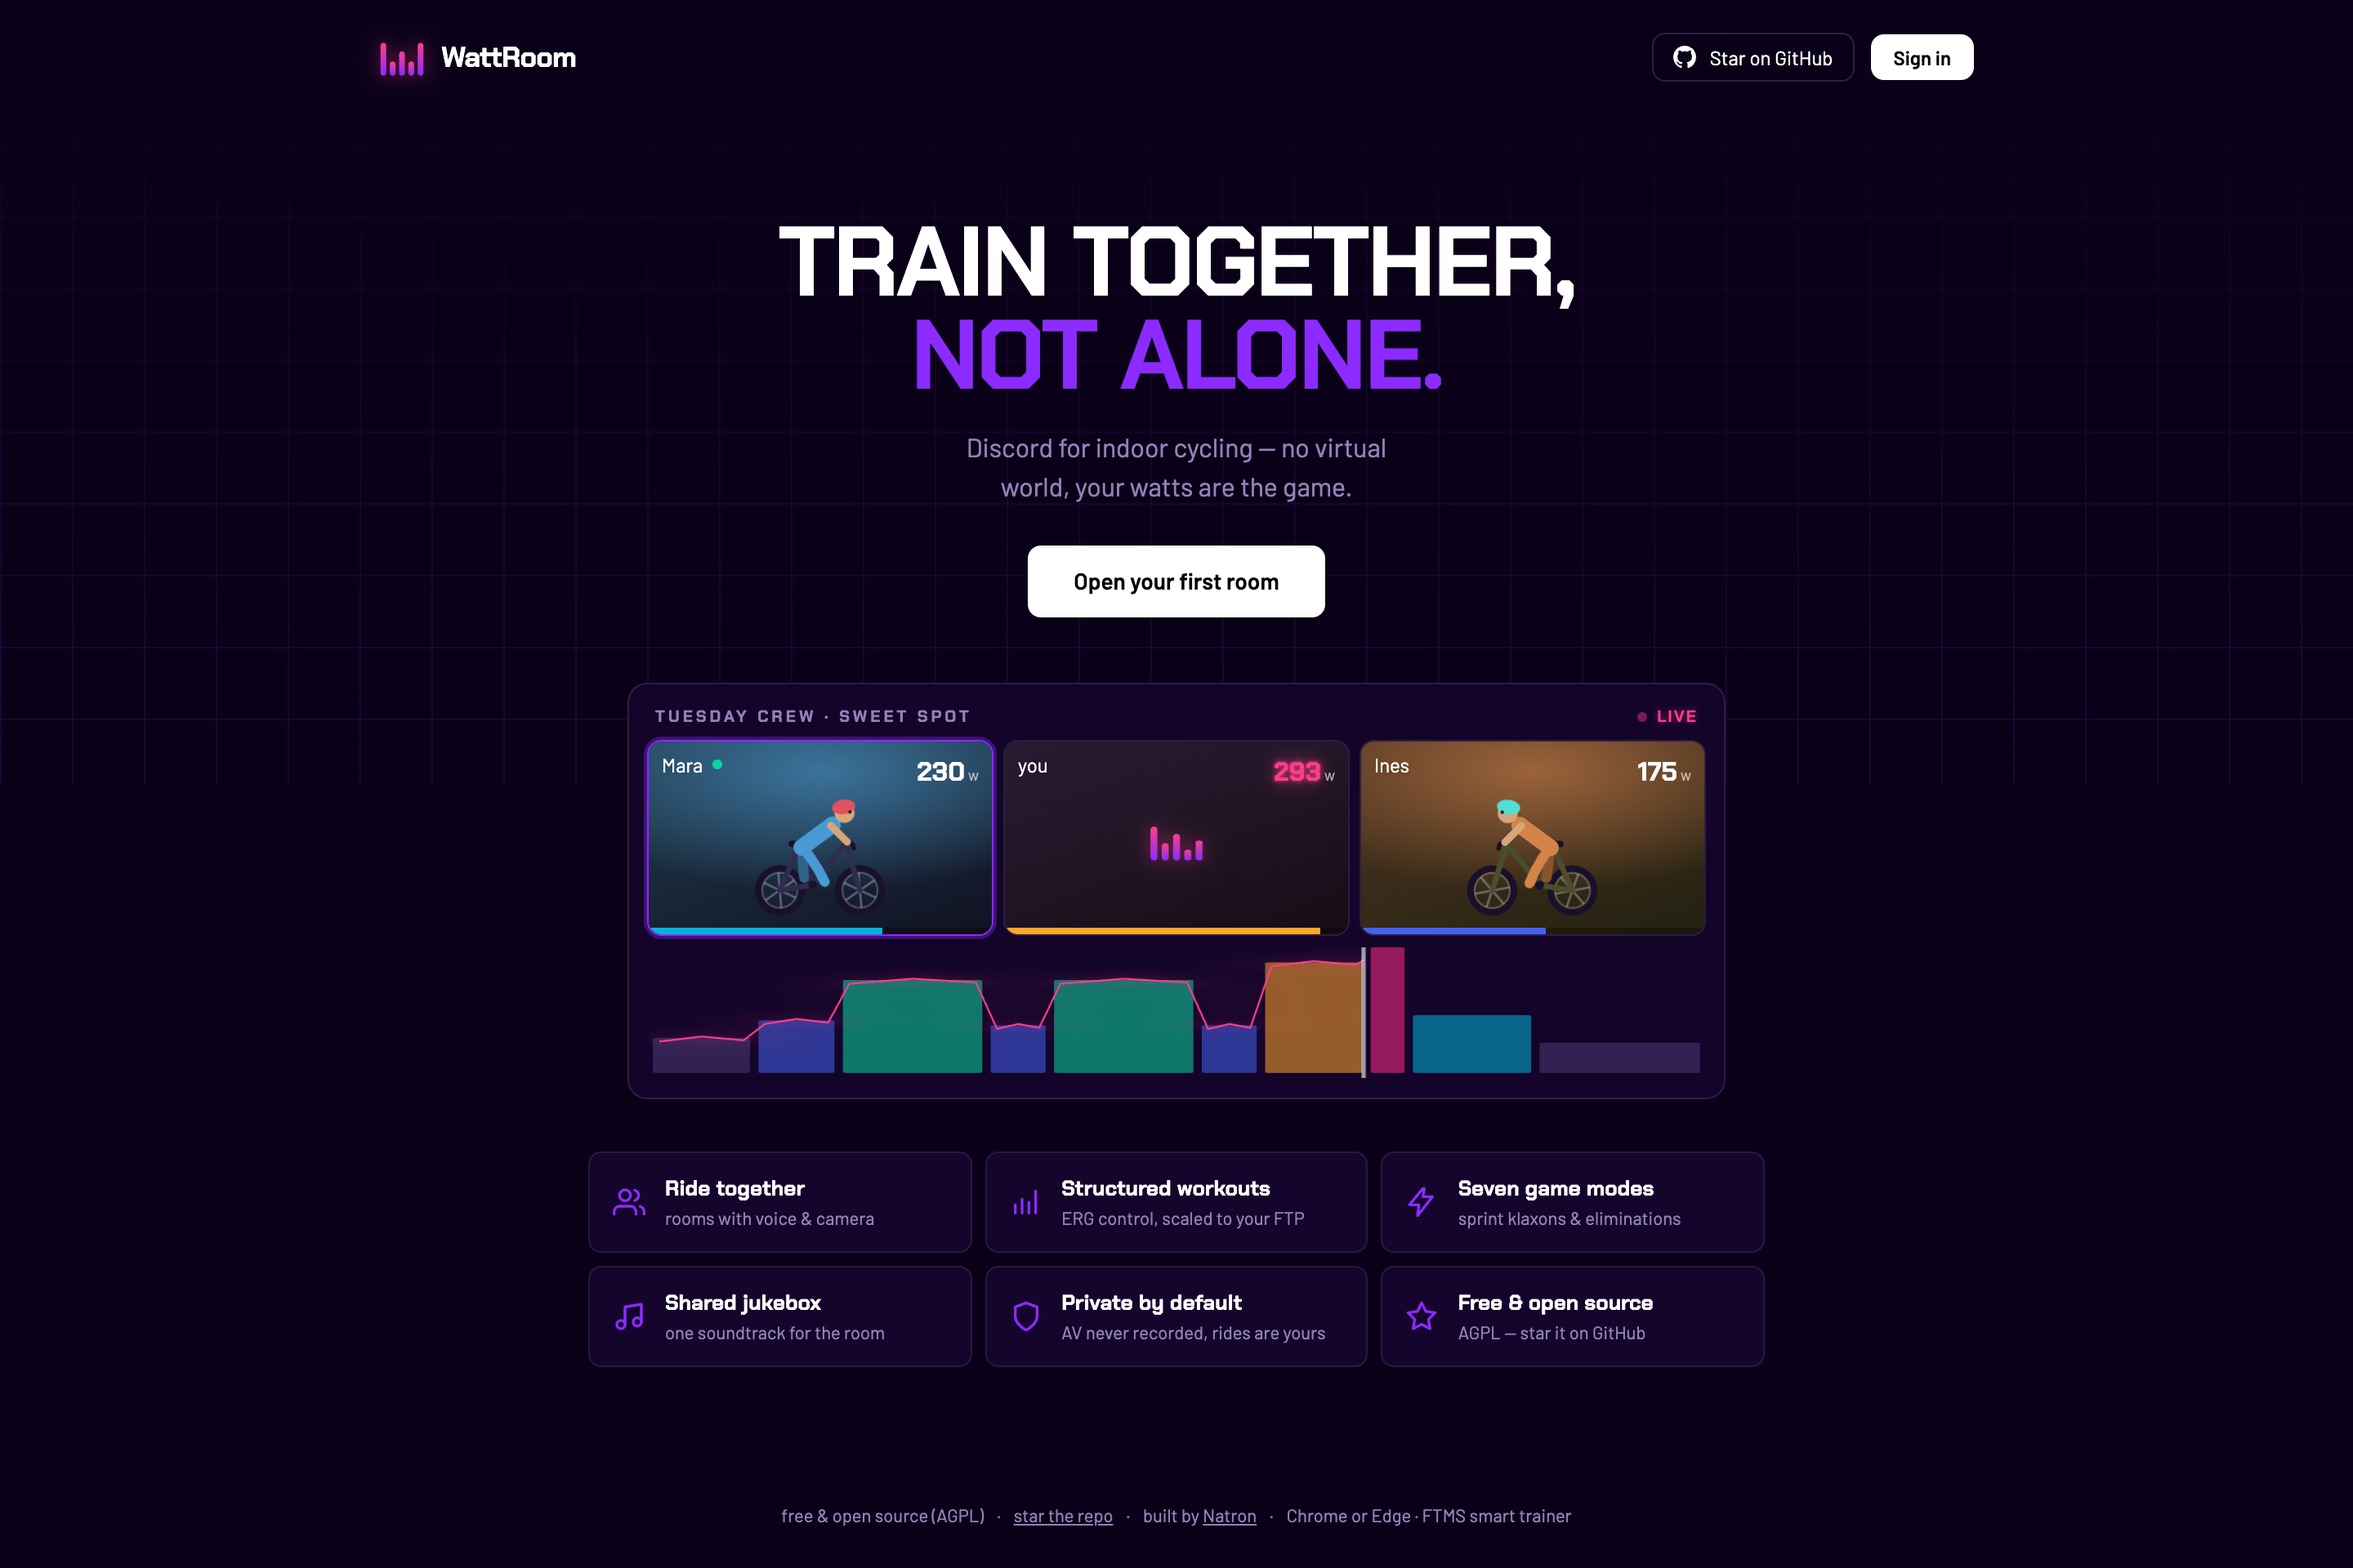
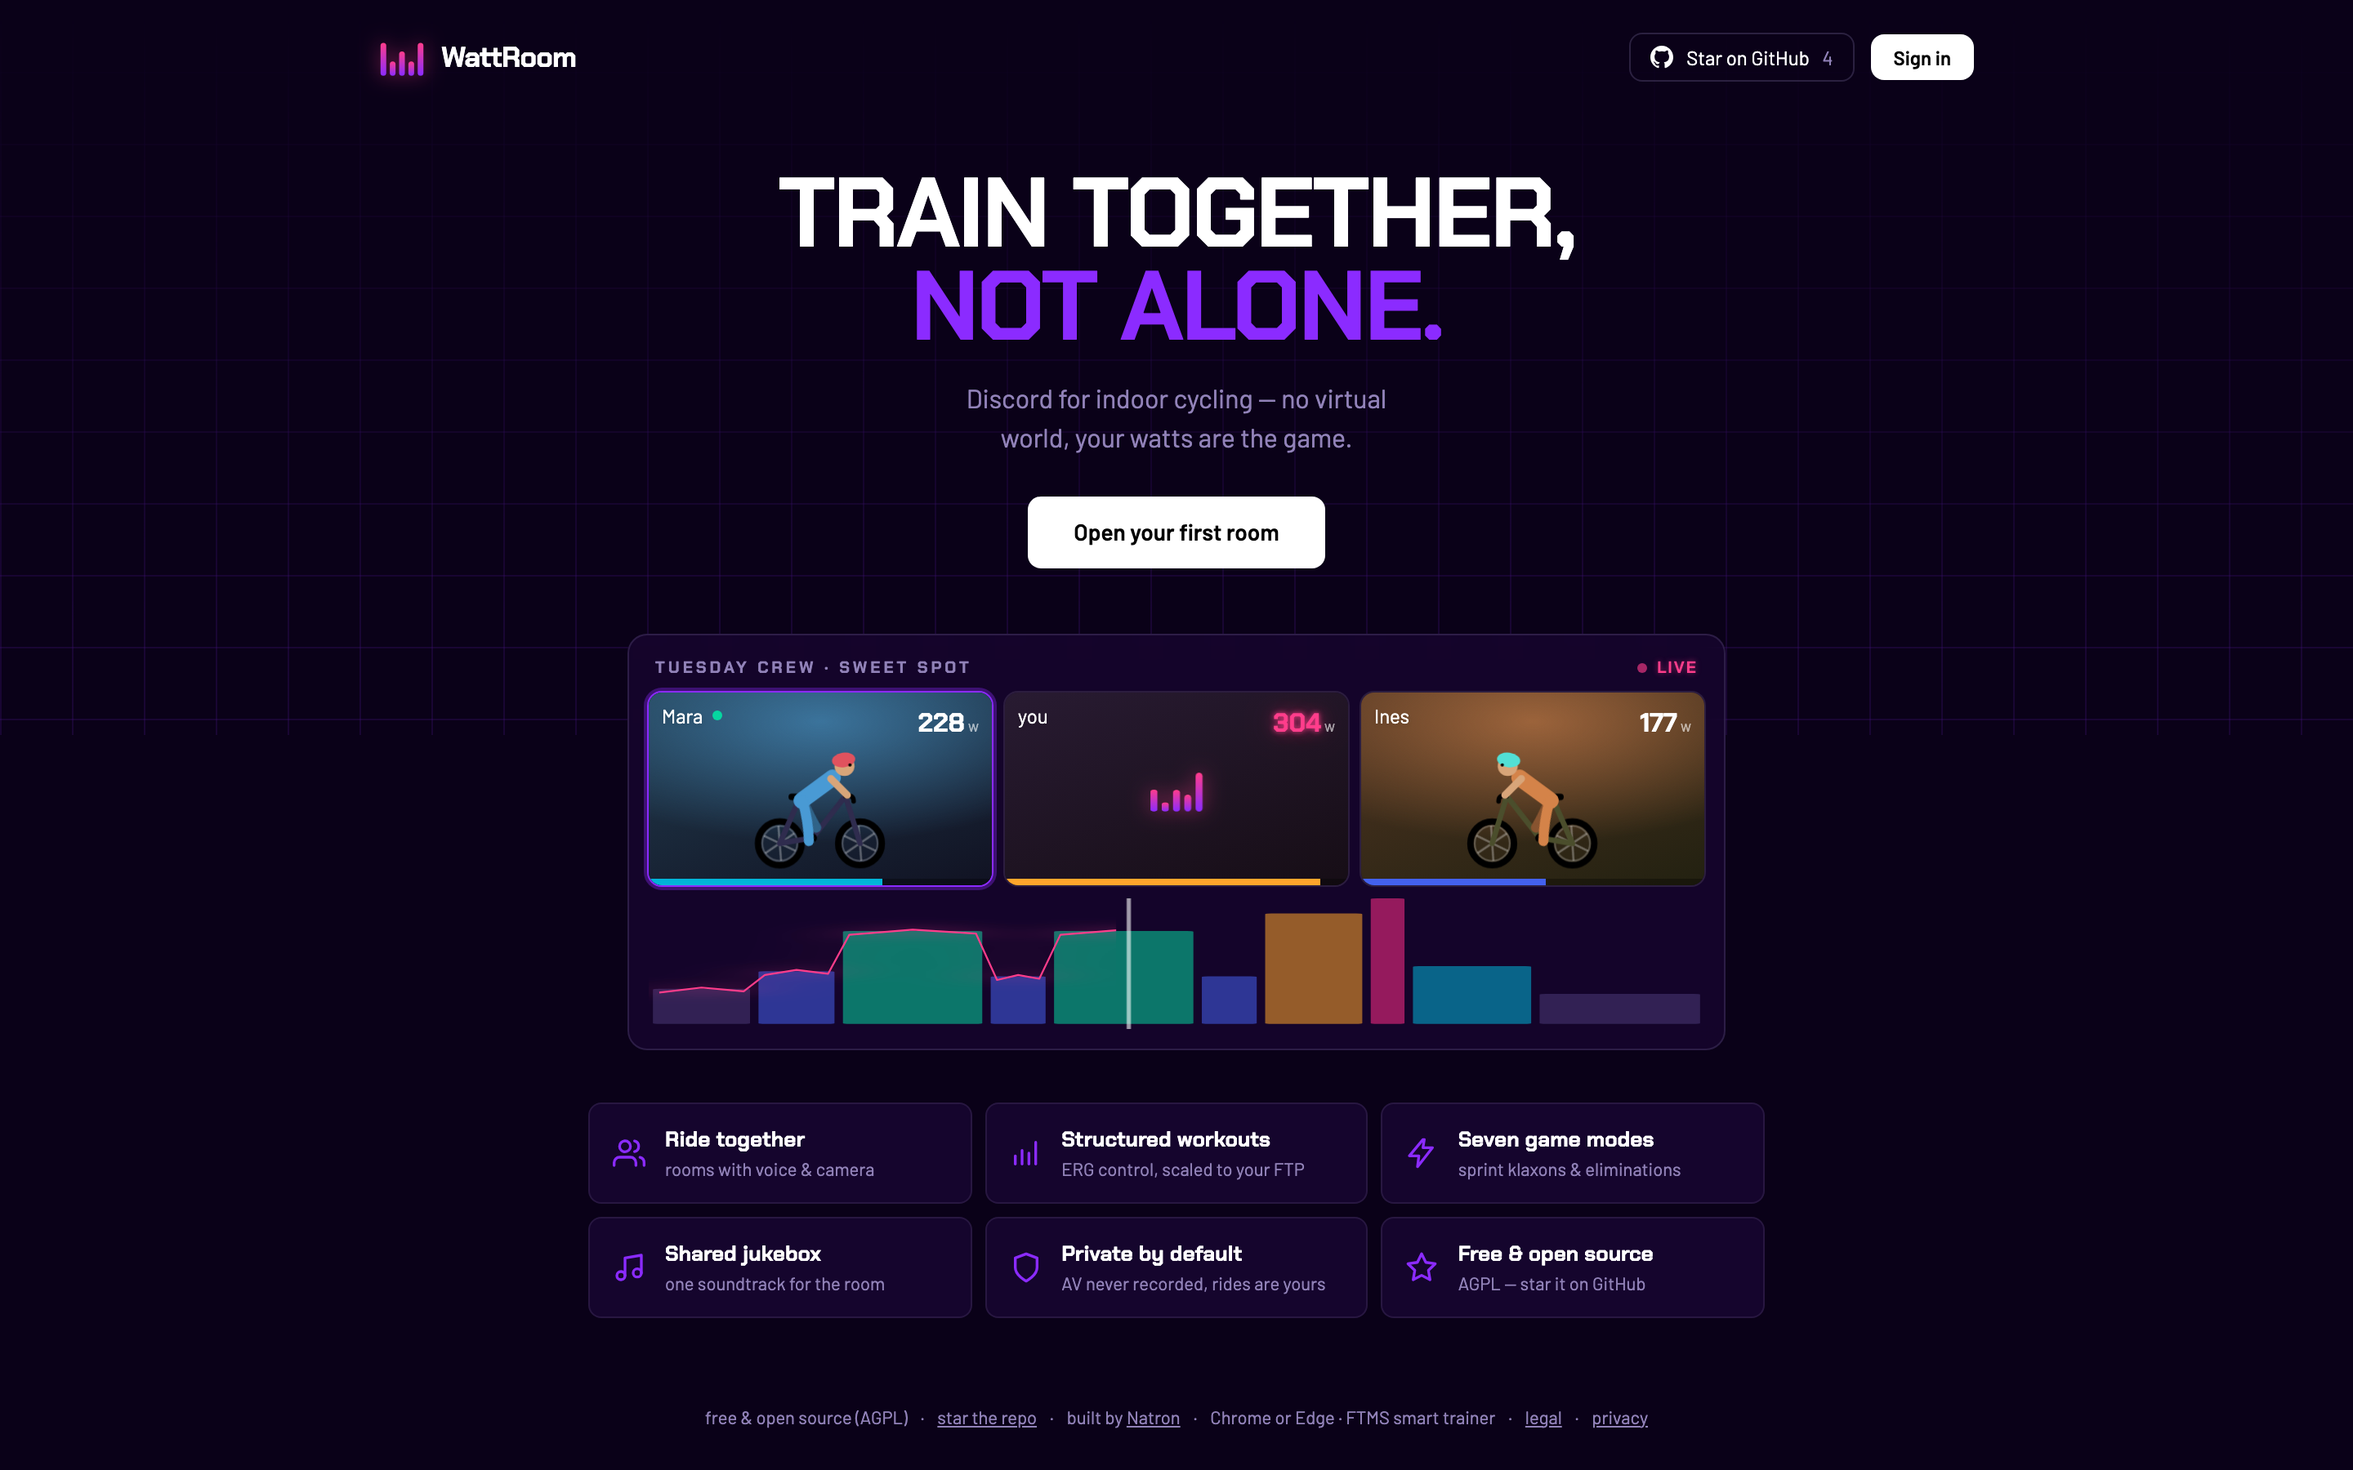
docs: rework the README on a real six-rider room, and add a social preview
The screenshots were from a mock room with the dev toolbar in frame; every
one is now the real app driven by six simulated riders on a threshold block,
so the dashboard, the sprint scoreboard and the workout library show numbers
that actually came out of the engine.

docs/assets/social-preview.html is the source of social-preview.png (1280x640,
GitHub Settings -> General -> Social preview) — a repo card that shows the
product rather than the wordmark the app's own /og/default.png already serves.

diff --git a/docs/assets/social-preview.html b/docs/assets/social-preview.html
@@ -1,0 +1,181 @@
+<!doctype html>
+<!--
+  Source of docs/assets/social-preview.png — GitHub's repo social preview
+  (Settings → General → Social preview), 1280×640. Re-render after a brand or
+  screenshot change:
+
+    npx playwright screenshot --viewport-size=1280,640 --wait-for-timeout=2000 \
+      docs/assets/social-preview.html docs/assets/social-preview.png
+
+  Colours are literal copies of web/src/app.css's dark pairs: this file renders
+  outside the app, so the tokens never resolve.
+-->
+<html lang="en">
+  <head>
+    <meta charset="utf-8" />
+    <title>WattRoom — social preview</title>
+    <link rel="preconnect" href="https://fonts.googleapis.com" />
+    <link rel="preconnect" href="https://fonts.gstatic.com" crossorigin />
+    <link
+      href="https://fonts.googleapis.com/css2?family=Barlow:wght@400;500&family=Chakra+Petch:wght@700&display=swap"
+      rel="stylesheet"
+    />
+    <style>
+      * {
+        margin: 0;
+        padding: 0;
+        box-sizing: border-box;
+      }
+      body {
+        width: 1280px;
+        height: 640px;
+        overflow: hidden;
+        position: relative;
+        background: #0a0118;
+        color: #fff;
+        font-family: "Barlow", system-ui, sans-serif;
+      }
+      /* The landing page's grid, plus the one glow the identity allows on
+			   live data (ADR-0005) — here it sits behind the room itself. */
+      .grid {
+        position: absolute;
+        inset: 0;
+        background-image:
+          linear-gradient(
+            to right,
+            rgba(139, 43, 255, 0.16) 0 1px,
+            transparent 1px 100%
+          ),
+          linear-gradient(
+            to bottom,
+            rgba(139, 43, 255, 0.16) 0 1px,
+            transparent 1px 100%
+          );
+        background-size: 64px 64px;
+      }
+      .glow {
+        position: absolute;
+        width: 900px;
+        height: 900px;
+        right: -220px;
+        top: -260px;
+        border-radius: 50%;
+        background: radial-gradient(
+          circle,
+          rgba(255, 61, 139, 0.28),
+          transparent 62%
+        );
+      }
+      .card {
+        position: relative;
+        height: 100%;
+        padding: 64px;
+        display: flex;
+        flex-direction: column;
+        width: 680px;
+      }
+      .brand {
+        display: flex;
+        align-items: center;
+        gap: 14px;
+      }
+      .brand span {
+        font-family: "Chakra Petch", sans-serif;
+        font-weight: 700;
+        font-size: 34px;
+        letter-spacing: -0.01em;
+      }
+      h1 {
+        font-family: "Chakra Petch", sans-serif;
+        font-weight: 700;
+        font-size: 72px;
+        line-height: 1.02;
+        letter-spacing: -0.02em;
+        margin-top: auto;
+      }
+      h1 em {
+        font-style: normal;
+        color: #8b2bff;
+      }
+      p {
+        margin-top: 22px;
+        font-size: 25px;
+        line-height: 1.35;
+        color: #9182b8;
+        max-width: 560px;
+      }
+      ul {
+        margin-top: auto;
+        padding-top: 34px;
+        display: flex;
+        gap: 10px;
+        list-style: none;
+      }
+      li {
+        font-size: 17px;
+        color: #cfc4e8;
+        border: 1px solid rgba(145, 130, 184, 0.35);
+        border-radius: 999px;
+        padding: 7px 15px;
+      }
+      /* The product, tilted away from the copy — cropped on purpose: a
+			   readable dashboard at this size would be a wall of 8 px text. */
+      .shot {
+        position: absolute;
+        top: 76px;
+        left: 690px;
+        width: 900px;
+        height: 600px;
+        overflow: hidden;
+        border-radius: 16px;
+        border: 1px solid rgba(139, 43, 255, 0.45);
+        box-shadow: 0 40px 90px rgba(0, 0, 0, 0.6);
+        transform: perspective(1600px) rotateY(-16deg) rotate(-2deg);
+        transform-origin: left center;
+      }
+      /* The app rail carries no story at this size — start the crop at the
+			   numbers. */
+      .shot img {
+        width: 1030px;
+        margin-left: -152px;
+        display: block;
+      }
+    </style>
+  </head>
+  <body>
+    <div class="grid"></div>
+    <div class="glow"></div>
+    <div class="shot"><img src="room-live.png" alt="" /></div>
+    <div class="card">
+      <div class="brand">
+        <svg viewBox="0 0 64 64" width="42" height="42" aria-hidden="true">
+          <defs>
+            <linearGradient id="s" x1="0" y1="0" x2="0" y2="1">
+              <stop offset="0%" stop-color="#ff3d8b" />
+              <stop offset="100%" stop-color="#8b2bff" />
+            </linearGradient>
+          </defs>
+          <g fill="url(#s)">
+            <rect x="2" y="12" width="8" height="46" rx="4" />
+            <rect x="15" y="38" width="8" height="20" rx="4" />
+            <rect x="28" y="24" width="8" height="34" rx="4" />
+            <rect x="41" y="38" width="8" height="20" rx="4" />
+            <rect x="54" y="12" width="8" height="46" rx="4" />
+          </g>
+        </svg>
+        <span>WattRoom</span>
+      </div>
+      <h1>Train together,<br /><em>not alone.</em></h1>
+      <p>
+        Discord for indoor cycling — structured workouts your whole crew rides
+        at once. No virtual world: your watts are the game.
+      </p>
+      <ul>
+        <li>Free &amp; AGPL</li>
+        <li>Self-hosted</li>
+        <li>Go + SvelteKit</li>
+        <li>BLE FTMS</li>
+      </ul>
+    </div>
+  </body>
+</html>

diff --git a/README.md b/README.md
@@ -19,7 +19,9 @@ built by [Natron](https://natron.io)
 
 ⭐ **Like the idea? [Star the repo](https://github.com/natrontech/wattroom/stargazers)** — it helps other pain-cave dwellers find it.
 
-<img src="docs/assets/room-live.png" alt="A live WattRoom session: six riders' watts and heart rate on one dashboard, ERG target, interval timeline and execution scores" width="100%" />
+<img src="docs/assets/room-live.png" alt="A live WattRoom session: six riders on a threshold block, each rider's watts, w/kg and execution score on one dashboard next to the interval timeline and the room's chat" width="100%" />
+
+<sub>Six riders, one timeline. Every target scales to the rider's own FTP, so the crew rides together whatever their numbers are.</sub>
 
 </div>
 
@@ -32,17 +34,24 @@ other, you share music. A group ride for pain caves.
 
 ## What's inside
 
-|                                                                                        |                                                                                 |
-| -------------------------------------------------------------------------------------- | ------------------------------------------------------------------------------- |
-| 🚴 **Rooms** — live watts, HR and cadence on one dashboard, voice & camera always there | 📈 **Structured workouts** — library + editor, precise ERG control over BLE FTMS |
-| 🎮 **Seven game modes** — sprint klaxons, eliminations, Watt Golf, Backyard Ramp, …     | 🎵 **Shared jukebox** — one synced YouTube soundtrack per room                   |
-| 🔒 **Private by default** — metrics stay in the room, AV never recorded                 | 🆓 **Free & open source** — AGPL, self-hostable as a single binary               |
+|                                                                                            |                                                                                          |
+| ------------------------------------------------------------------------------------------ | ---------------------------------------------------------------------------------------- |
+| 🚴 **Rooms** — live watts, HR and cadence on one dashboard, voice & camera always there    | 📈 **Structured workouts** — curated library + editor, precise ERG control over BLE FTMS |
+| 🎮 **Seven game modes** — sprint klaxons, eliminations, Watt Golf, Backyard Ramp, …        | 🎵 **Shared jukebox** — one synced YouTube soundtrack per room                           |
+| 🏅 **Rides that count** — every session saved, `.fit` export, Strava upload, XP & trophies | 🔒 **Private by default** — metrics room-scoped, AV never recorded                       |
 
 ## Screens
 
-| The landing                                                     | On your phone                                                             |
-| :-------------------------------------------------------------: | :-----------------------------------------------------------------------: |
-| <img src="docs/assets/landing.png" alt="WattRoom landing page" /> | <img src="docs/assets/landing-mobile.png" alt="WattRoom on mobile" width="280" /> |
+|                                   The sprint moment                                    |                                        The workout library                                        |
+| :------------------------------------------------------------------------------------: | :-----------------------------------------------------------------------------------------------: |
+| <img src="docs/assets/sprint.png" alt="A sprint moment: riders ranked live by w/kg" /> | <img src="docs/assets/workouts.png" alt="The workout library, every target scaled to your FTP" /> |
+
+The way in — on a desk, and on the phone that lives on the bars:
+
+<p align="center">
+  <img src="docs/assets/landing.png" alt="WattRoom landing page" width="560" />
+  <img src="docs/assets/landing-mobile.png" alt="WattRoom on a phone" width="180" />
+</p>
 
 ## Quick start (dev)
 
